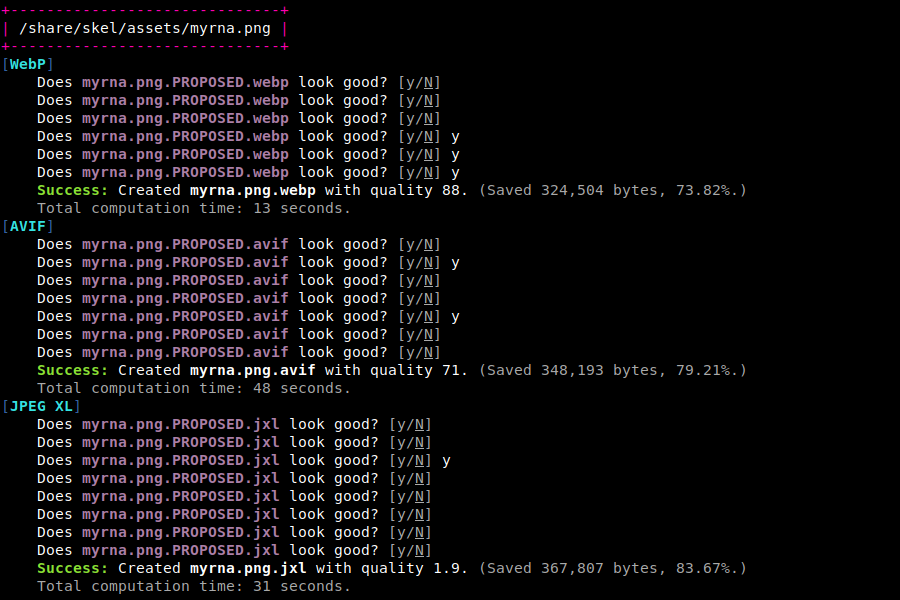
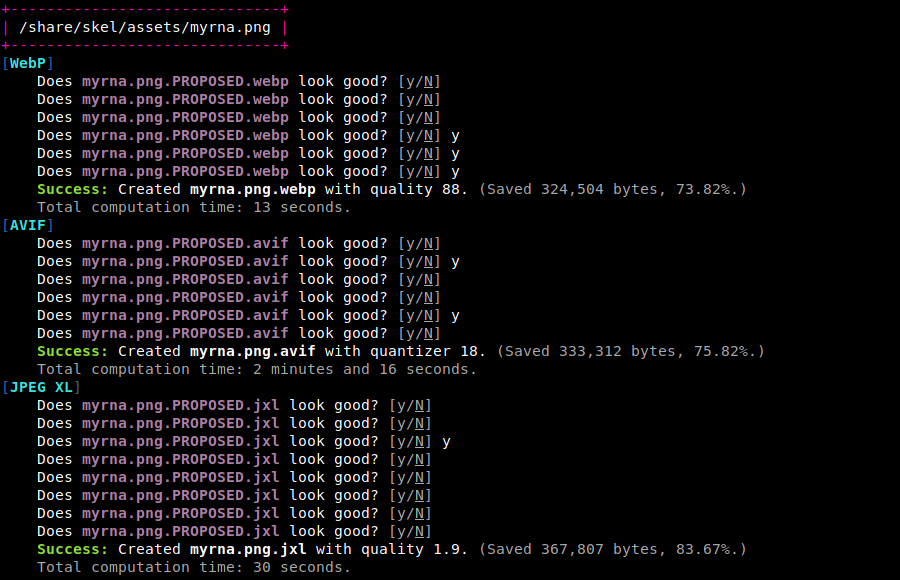
build: 0.3.1

Changed region(s): [[0.0, 0.0931, 0.84, 0.931], [0.0311, 0.9621, 0.3733, 0.9931], [0.0, 0.0, 0.0311, 0.031]]

diff --git a/CREDITS.md b/CREDITS.md
@@ -6,8 +6,8 @@ License details for project dependencies are listed below.
 
 * Apache License 2.0 (10)
 * MIT License (6)
-* BSD 3-Clause &quot;New&quot; or &quot;Revised&quot; License (4)
-* BSD 2-Clause &quot;Simplified&quot; License (1)
+* BSD 2-Clause &quot;Simplified&quot; License (2)
+* BSD 3-Clause &quot;New&quot; or &quot;Revised&quot; License (2)
 * Creative Commons Zero v1.0 Universal (1)
 * GNU General Public License v3.0 only (1)
 * Do What The F*ck You Want To Public License (1)
@@ -1876,7 +1876,27 @@ limitations under the License.
 
 **Used By:**
 
-* [rav1e 0.5.0-alpha](https://github.com/xiph/rav1e/)
+* [libavif-sys 0.9.0](https://github.com/njaard/libavif-rs)
+
+
+```
+Copyright (c) <year> <owner> All rights reserved.
+
+Redistribution and use in source and binary forms, with or without modification, are permitted provided that the following conditions are met:
+
+1. Redistributions of source code must retain the above copyright notice, this list of conditions and the following disclaimer.
+
+2. Redistributions in binary form must reproduce the above copyright notice, this list of conditions and the following disclaimer in the documentation and/or other materials provided with the distribution.
+
+THIS SOFTWARE IS PROVIDED BY THE COPYRIGHT HOLDERS AND CONTRIBUTORS "AS IS" AND ANY EXPRESS OR IMPLIED WARRANTIES, INCLUDING, BUT NOT LIMITED TO, THE IMPLIED WARRANTIES OF MERCHANTABILITY AND FITNESS FOR A PARTICULAR PURPOSE ARE DISCLAIMED. IN NO EVENT SHALL THE COPYRIGHT HOLDER OR CONTRIBUTORS BE LIABLE FOR ANY DIRECT, INDIRECT, INCIDENTAL, SPECIAL, EXEMPLARY, OR CONSEQUENTIAL DAMAGES (INCLUDING, BUT NOT LIMITED TO, PROCUREMENT OF SUBSTITUTE GOODS OR SERVICES; LOSS OF USE, DATA, OR PROFITS; OR BUSINESS INTERRUPTION) HOWEVER CAUSED AND ON ANY THEORY OF LIABILITY, WHETHER IN CONTRACT, STRICT LIABILITY, OR TORT (INCLUDING NEGLIGENCE OR OTHERWISE) ARISING IN ANY WAY OUT OF THE USE OF THIS SOFTWARE, EVEN IF ADVISED OF THE POSSIBILITY OF SUCH DAMAGE.
+
+```
+
+### BSD 2-Clause &quot;Simplified&quot; License
+
+**Used By:**
+
+* [rav1e 0.4.1](https://github.com/xiph/rav1e/)
 * [v_frame 0.2.1](https://github.com/xiph/rav1e/)
 
 
@@ -1895,46 +1915,6 @@ modification, are permitted provided that the following conditions are met:
 * Redistributions in binary form must reproduce the above copyright notice,
   this list of conditions and the following disclaimer in the documentation
   and/or other materials provided with the distribution.
-
-THIS SOFTWARE IS PROVIDED BY THE COPYRIGHT HOLDERS AND CONTRIBUTORS "AS IS"
-AND ANY EXPRESS OR IMPLIED WARRANTIES, INCLUDING, BUT NOT LIMITED TO, THE
-IMPLIED WARRANTIES OF MERCHANTABILITY AND FITNESS FOR A PARTICULAR PURPOSE ARE
-DISCLAIMED. IN NO EVENT SHALL THE COPYRIGHT HOLDER OR CONTRIBUTORS BE LIABLE
-FOR ANY DIRECT, INDIRECT, INCIDENTAL, SPECIAL, EXEMPLARY, OR CONSEQUENTIAL
-DAMAGES (INCLUDING, BUT NOT LIMITED TO, PROCUREMENT OF SUBSTITUTE GOODS OR
-SERVICES; LOSS OF USE, DATA, OR PROFITS; OR BUSINESS INTERRUPTION) HOWEVER
-CAUSED AND ON ANY THEORY OF LIABILITY, WHETHER IN CONTRACT, STRICT LIABILITY,
-OR TORT (INCLUDING NEGLIGENCE OR OTHERWISE) ARISING IN ANY WAY OUT OF THE USE
-OF THIS SOFTWARE, EVEN IF ADVISED OF THE POSSIBILITY OF SUCH DAMAGE.
-
-```
-
-### BSD 3-Clause &quot;New&quot; or &quot;Revised&quot; License
-
-**Used By:**
-
-* [avif-serialize 0.6.5](https://github.com/kornelski/avif-serialize)
-
-
-```
-BSD 3-Clause License
-
-Copyright (c) 2020, Cloudflare, Inc.
-All rights reserved.
-
-Redistribution and use in source and binary forms, with or without
-modification, are permitted provided that the following conditions are met:
-
-1. Redistributions of source code must retain the above copyright notice, this
-   list of conditions and the following disclaimer.
-
-2. Redistributions in binary form must reproduce the above copyright notice,
-   this list of conditions and the following disclaimer in the documentation
-   and/or other materials provided with the distribution.
-
-3. Neither the name of the copyright holder nor the names of its
-   contributors may be used to endorse or promote products derived from
-   this software without specific prior written permission.
 
 THIS SOFTWARE IS PROVIDED BY THE COPYRIGHT HOLDERS AND CONTRIBUTORS "AS IS"
 AND ANY EXPRESS OR IMPLIED WARRANTIES, INCLUDING, BUT NOT LIMITED TO, THE
@@ -2009,46 +1989,6 @@ Redistribution and use in source and binary forms, with or without modification,
 3. Neither the name of the copyright holder nor the names of its contributors may be used to endorse or promote products derived from this software without specific prior written permission.
 
 THIS SOFTWARE IS PROVIDED BY THE COPYRIGHT HOLDERS AND CONTRIBUTORS "AS IS" AND ANY EXPRESS OR IMPLIED WARRANTIES, INCLUDING, BUT NOT LIMITED TO, THE IMPLIED WARRANTIES OF MERCHANTABILITY AND FITNESS FOR A PARTICULAR PURPOSE ARE DISCLAIMED. IN NO EVENT SHALL THE COPYRIGHT HOLDER OR CONTRIBUTORS BE LIABLE FOR ANY DIRECT, INDIRECT, INCIDENTAL, SPECIAL, EXEMPLARY, OR CONSEQUENTIAL DAMAGES (INCLUDING, BUT NOT LIMITED TO, PROCUREMENT OF SUBSTITUTE GOODS OR SERVICES; LOSS OF USE, DATA, OR PROFITS; OR BUSINESS INTERRUPTION) HOWEVER CAUSED AND ON ANY THEORY OF LIABILITY, WHETHER IN CONTRACT, STRICT LIABILITY, OR TORT (INCLUDING NEGLIGENCE OR OTHERWISE) ARISING IN ANY WAY OUT OF THE USE OF THIS SOFTWARE, EVEN IF ADVISED OF THE POSSIBILITY OF SUCH DAMAGE.
-
-```
-
-### BSD 3-Clause &quot;New&quot; or &quot;Revised&quot; License
-
-**Used By:**
-
-* [ravif 0.7.0](https://github.com/kornelski/cavif-rs)
-
-
-```
-BSD 3-Clause License
-
-Copyright (c) 2020, Kornel
-All rights reserved.
-
-Redistribution and use in source and binary forms, with or without
-modification, are permitted provided that the following conditions are met:
-
-1. Redistributions of source code must retain the above copyright notice, this
-   list of conditions and the following disclaimer.
-
-2. Redistributions in binary form must reproduce the above copyright notice,
-   this list of conditions and the following disclaimer in the documentation
-   and/or other materials provided with the distribution.
-
-3. Neither the name of the copyright holder nor the names of its
-   contributors may be used to endorse or promote products derived from
-   this software without specific prior written permission.
-
-THIS SOFTWARE IS PROVIDED BY THE COPYRIGHT HOLDERS AND CONTRIBUTORS "AS IS"
-AND ANY EXPRESS OR IMPLIED WARRANTIES, INCLUDING, BUT NOT LIMITED TO, THE
-IMPLIED WARRANTIES OF MERCHANTABILITY AND FITNESS FOR A PARTICULAR PURPOSE ARE
-DISCLAIMED. IN NO EVENT SHALL THE COPYRIGHT HOLDER OR CONTRIBUTORS BE LIABLE
-FOR ANY DIRECT, INDIRECT, INCIDENTAL, SPECIAL, EXEMPLARY, OR CONSEQUENTIAL
-DAMAGES (INCLUDING, BUT NOT LIMITED TO, PROCUREMENT OF SUBSTITUTE GOODS OR
-SERVICES; LOSS OF USE, DATA, OR PROFITS; OR BUSINESS INTERRUPTION) HOWEVER
-CAUSED AND ON ANY THEORY OF LIABILITY, WHETHER IN CONTRACT, STRICT LIABILITY,
-OR TORT (INCLUDING NEGLIGENCE OR OTHERWISE) ARISING IN ANY WAY OUT OF THE USE
-OF THIS SOFTWARE, EVEN IF ADVISED OF THE POSSIBILITY OF SUCH DAMAGE.
 
 ```
 
@@ -2613,8 +2553,8 @@ SOFTWARE.
 * [dactyl 0.1.7](https://github.com/Blobfolio/dactyl)
 * [dowser 0.2.2](https://github.com/Blobfolio/dowser)
 * [fyi_msg 0.7.1](https://github.com/Blobfolio/fyi)
-* [refract 0.3.0](https://github.com/Blobfolio/refract)
-* [refract_core 0.3.0](https://github.com/Blobfolio/refract)
+* [refract 0.3.1](https://github.com/Blobfolio/refract)
+* [refract_core 0.3.1](https://github.com/Blobfolio/refract)
 
 
 ```

diff --git a/README.md b/README.md
@@ -46,7 +46,9 @@ Refract implements `libavif`, `libjxl`, and `libwebp` directly so has comparable
 | WebP | Lossless | PNG | `cwebp -lossless -z 9 -q 100` |
 | WebP | Lossy | JPEG, PNG | `cwebp -m 6 -pass 10 -q <N>` |
 
-Both AVIF and JPEG XL are CPU-aware and will leverage thread parallelization when encoding. This provides massive — but relative — performance improvements for these famously _slow_ formats. (They're still 4-10x slower than WebP.)
+AVIF encoding is multi-threaded, but not tiled. (It is a _slow_ process no matter what, so we might as well maximize the compression savings!)
+
+JPEG XL encoding is multi-threaded through and through.
 
 **Note:**
  >The upcoming release of Chrome v.91 is introducing stricter requirements for AVIF images that will [prevent the rendering of many previously valid sources](https://bugs.chromium.org/p/chromium/issues/detail?id=1115483). This will break a fuckton of images, including those created with Refract < `0.3.1`. Be sure to regenerate any such images using `0.3.1+` to avoid any sadness.
